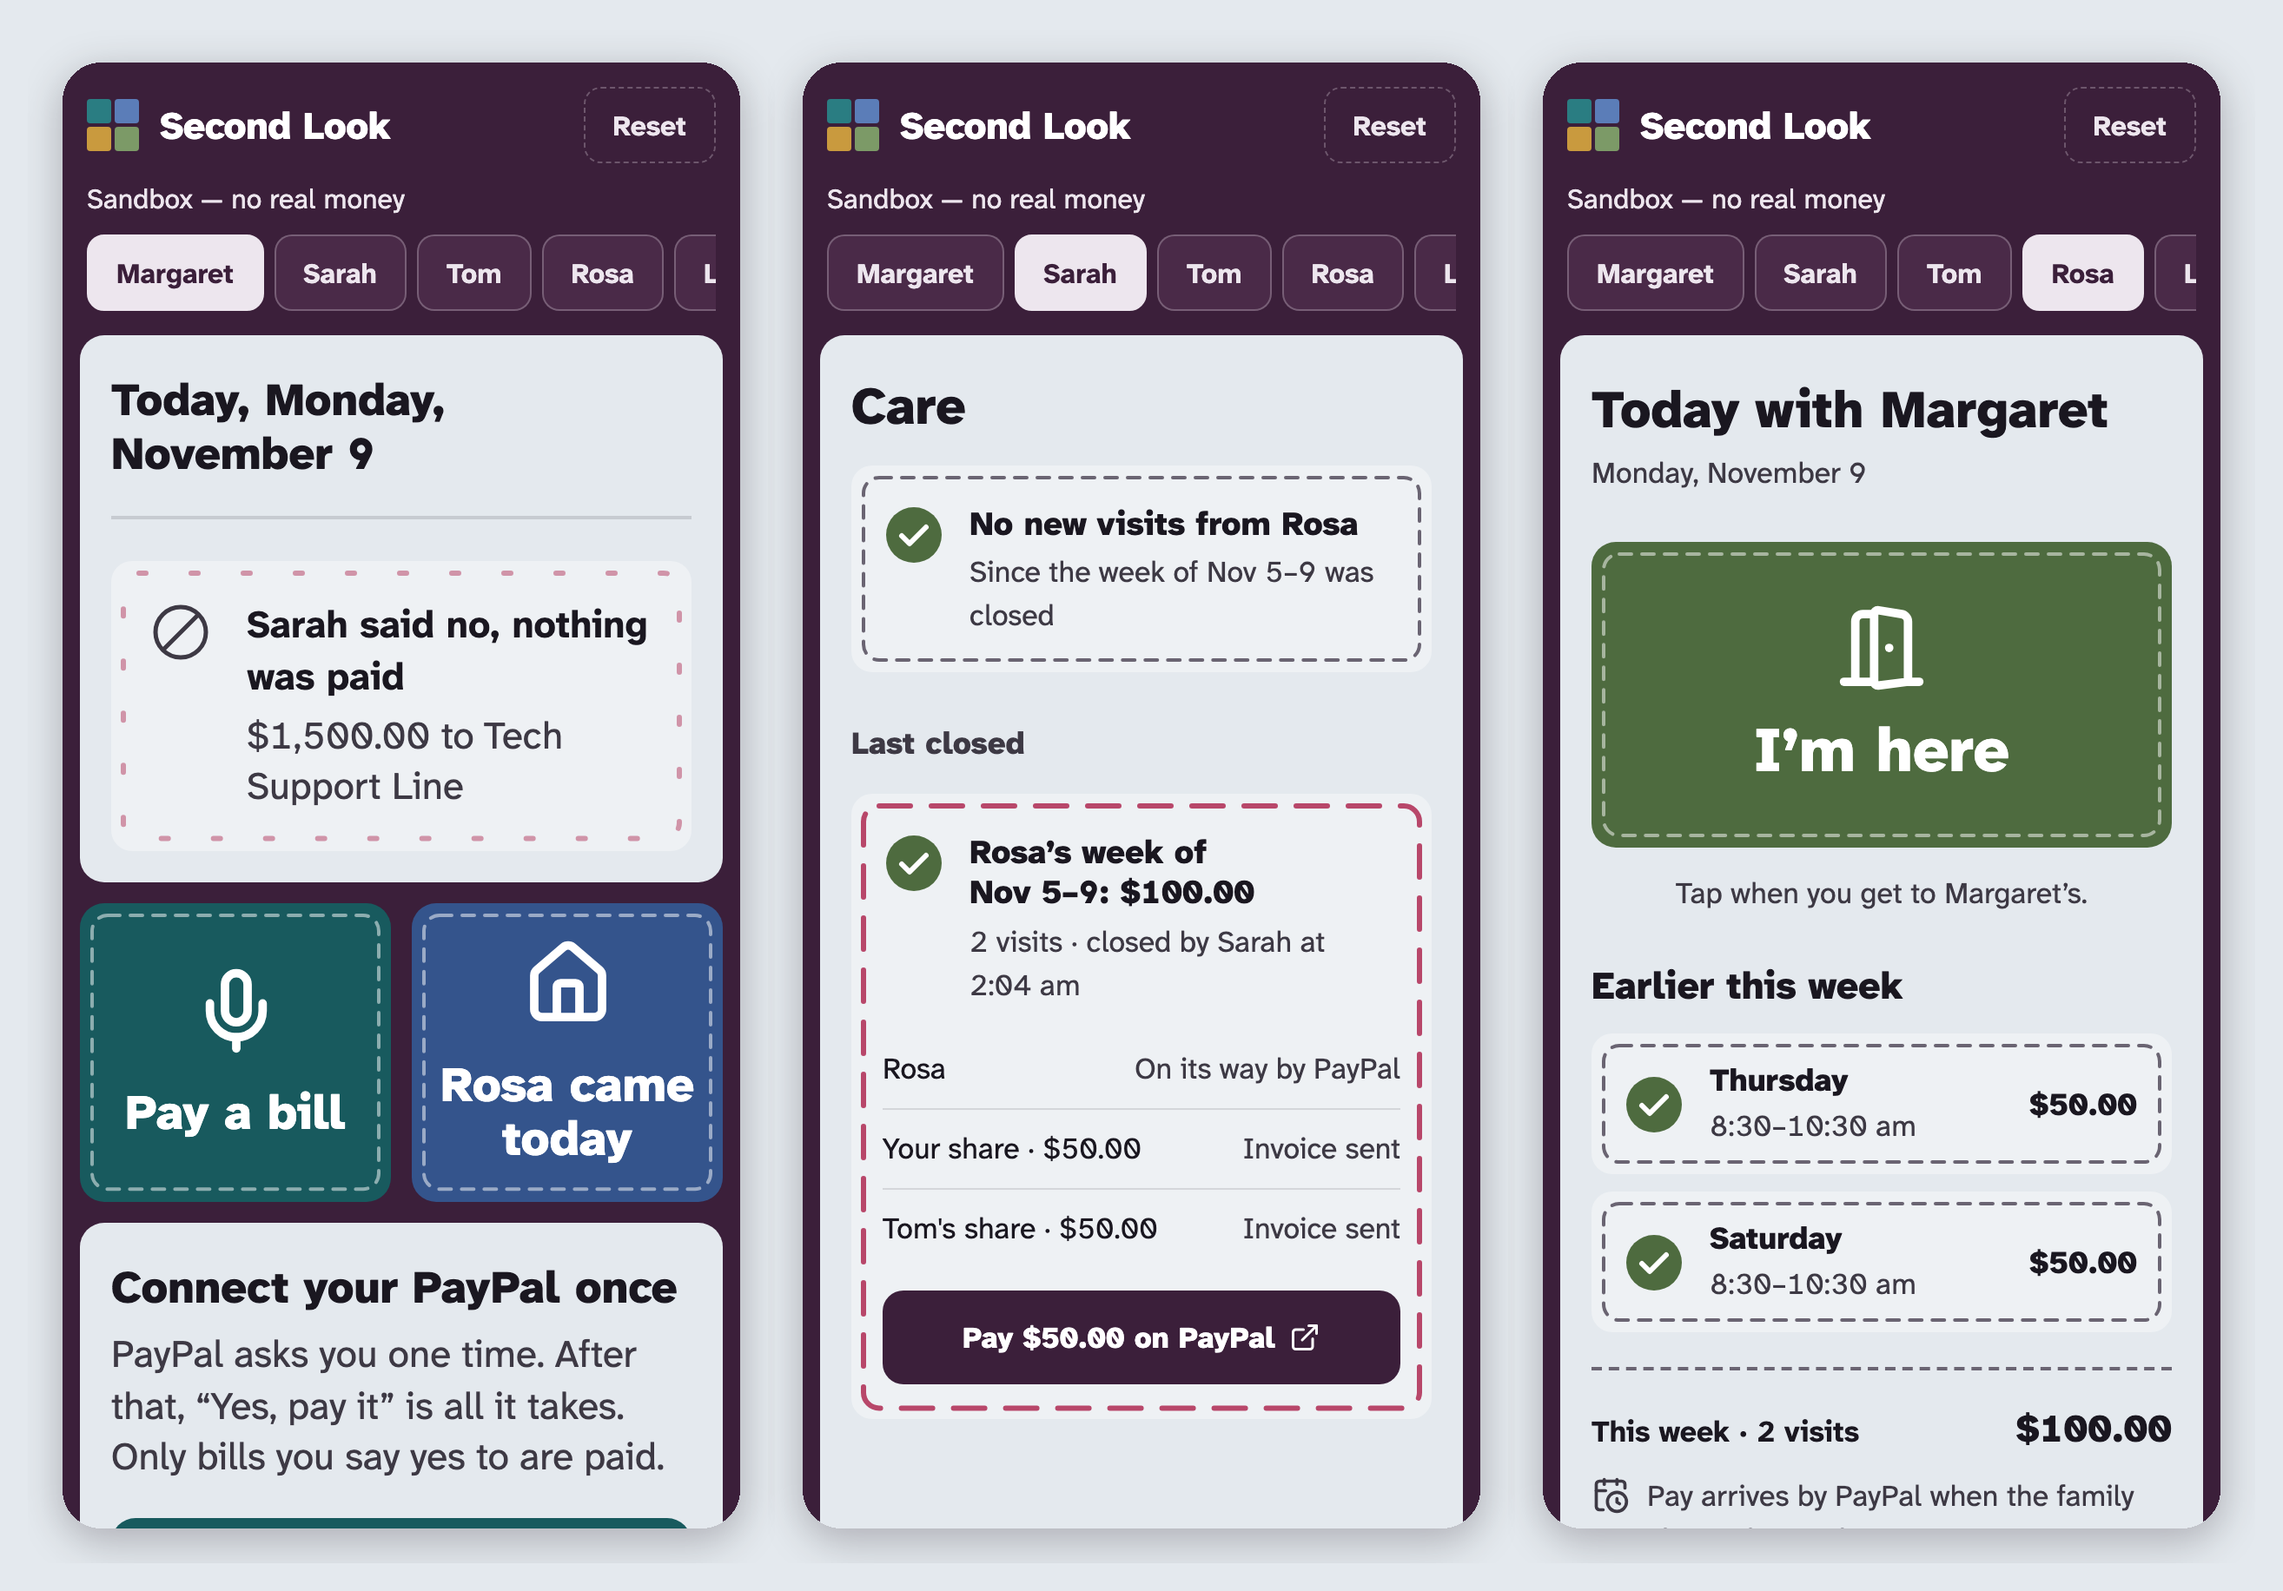
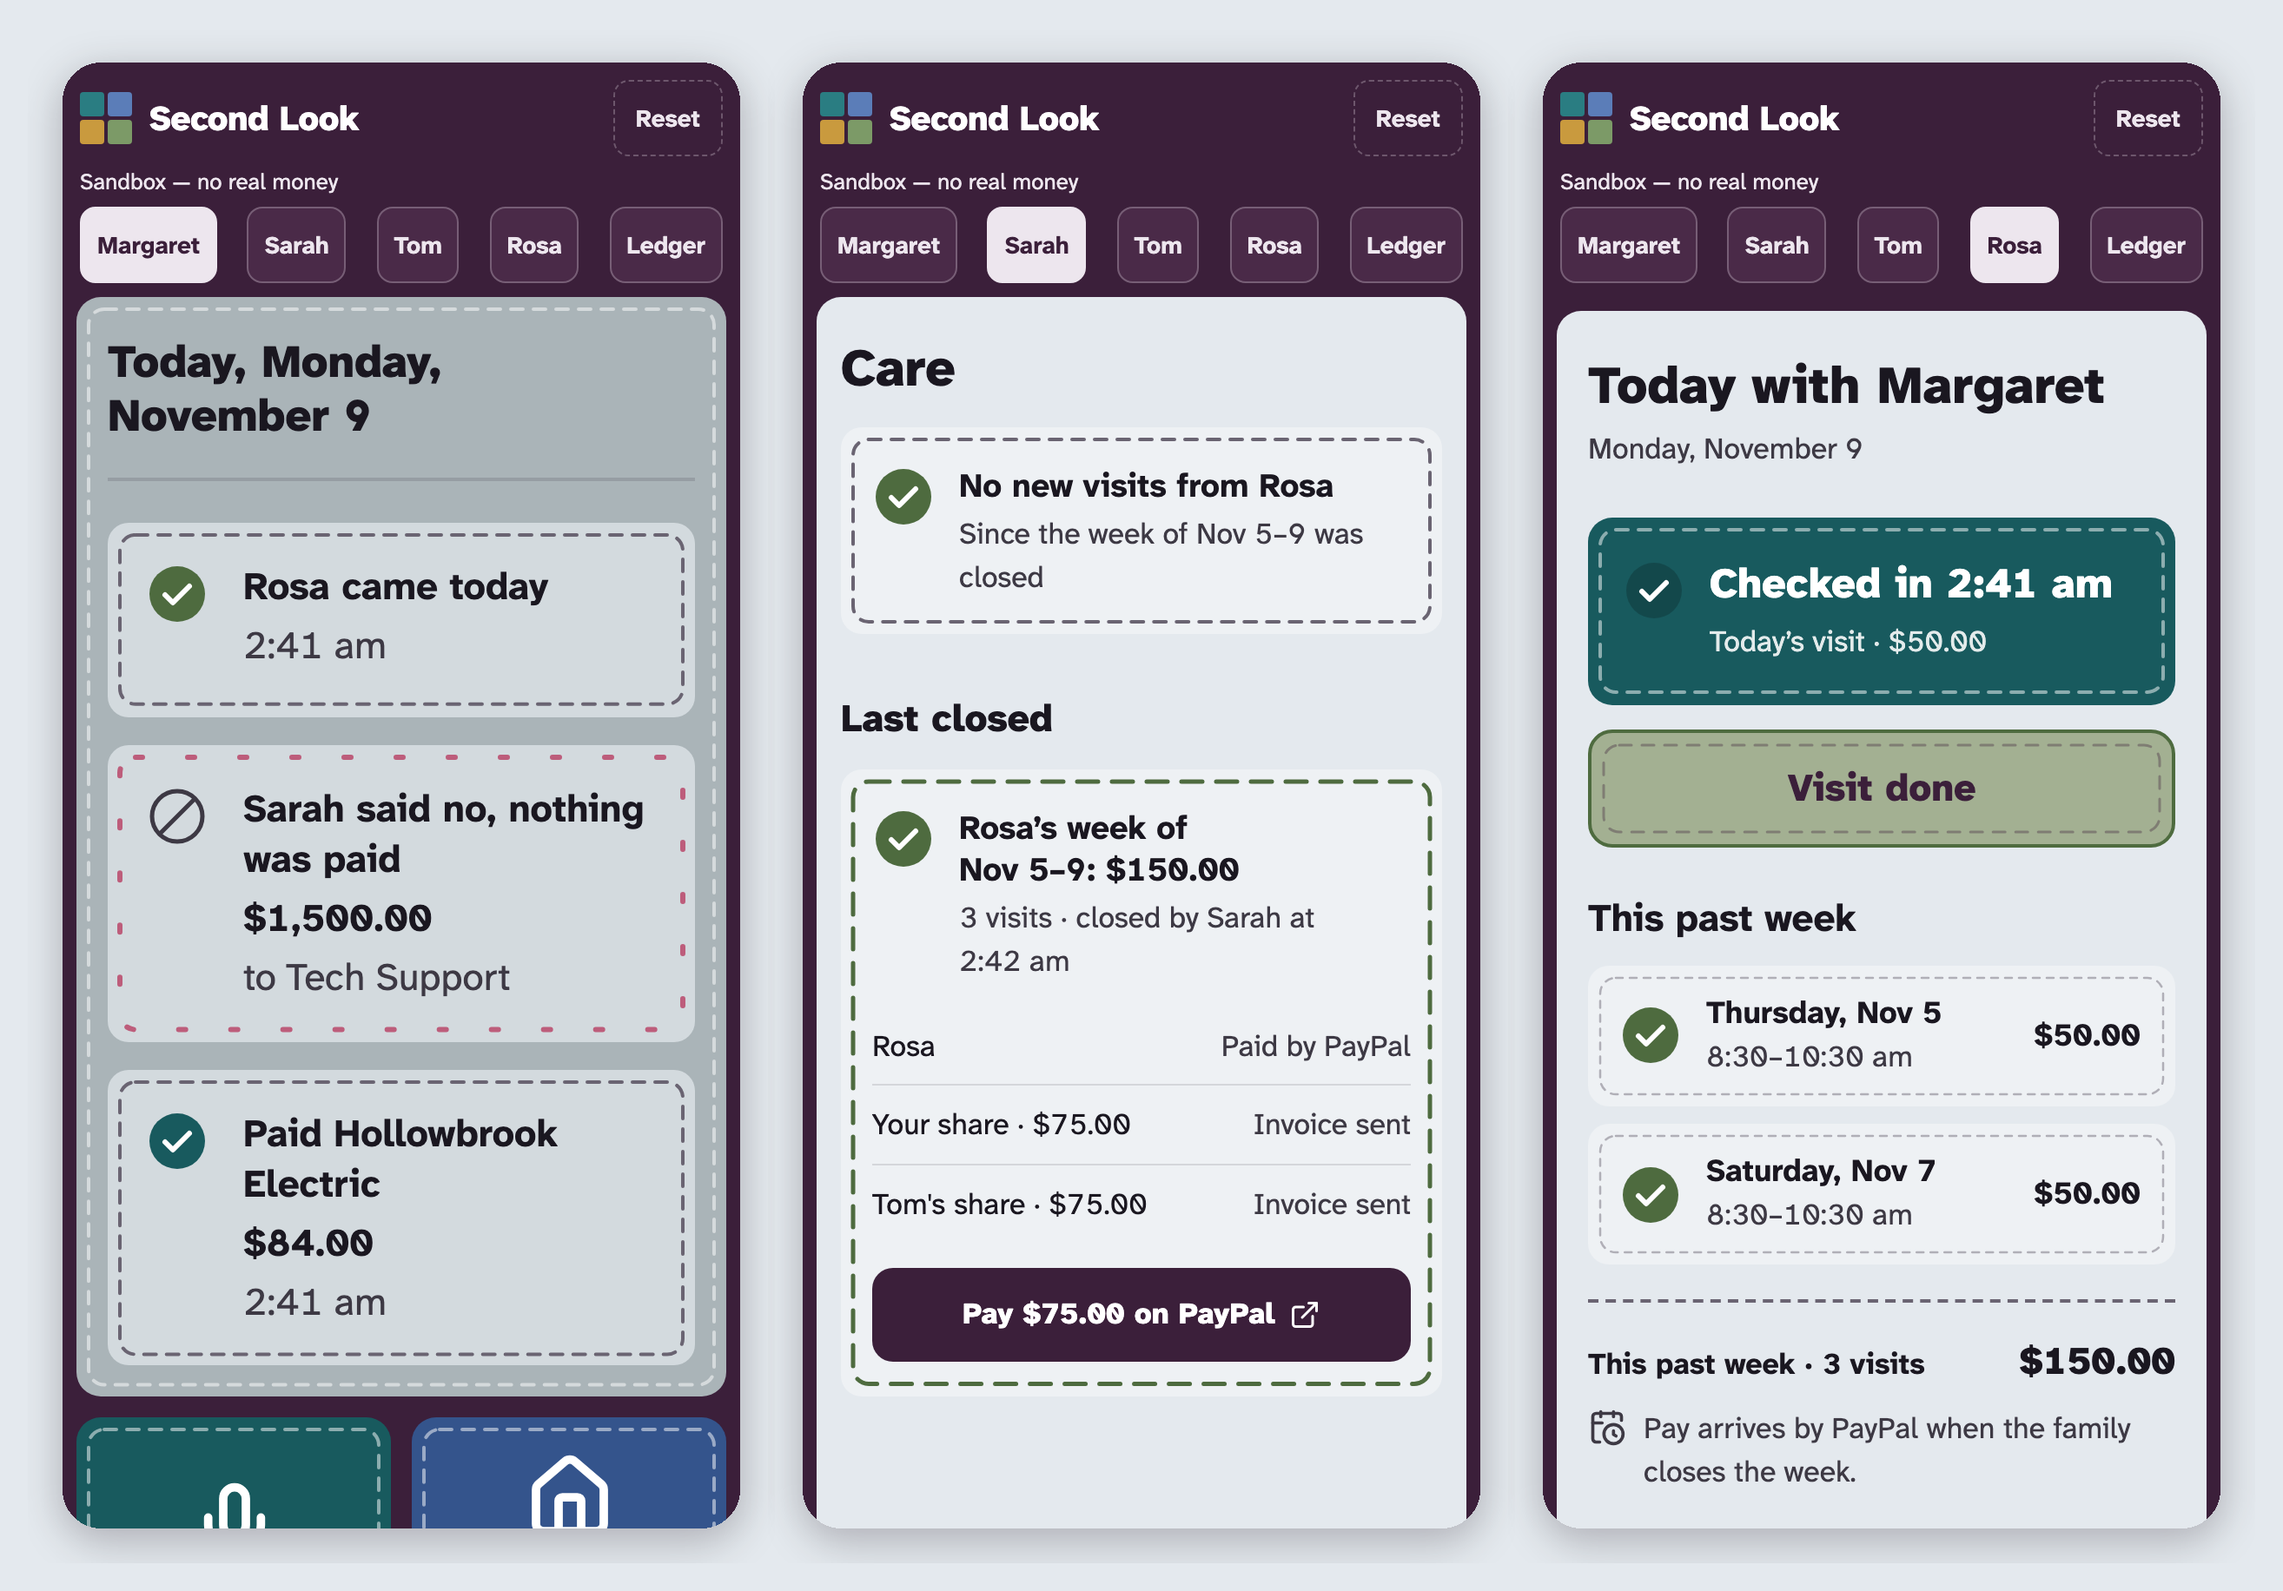
Refresh the README screenshots from the finished screens, and show Margaret's tablet layout

diff --git a/README.md b/README.md
@@ -34,6 +34,8 @@ shares through reminders, IOUs and awkward texts.
 **Margaret pays her own bills.** She taps *Pay a bill*, says or types "Pay the electric bill, $84", hears it read back,
 and says yes. She connected her PayPal once, so that's all it takes. Normal bills go straight through.
 
+![Margaret's screen on her tablet: today's list on the left, with a payment sent to Sarah to double-check and the electric bill paid; two large blocks on the right, Pay a bill and Rosa came today.](assets/readme/margaret-tablet.png)
+
 **Anything unusual is held, not refused.** A new payee, an amount over her limit or three times the usual, words like
 "gift cards" or "hacked", urgency, or too much in one day: the payment is placed as a **PayPal authorization** and sent
 to Sarah and Tom.
